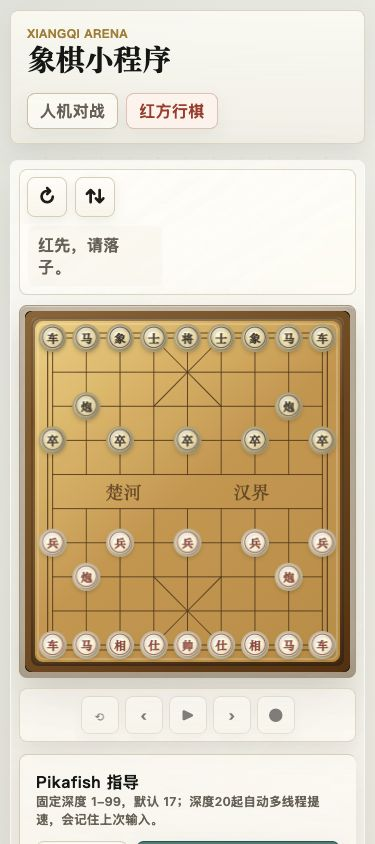
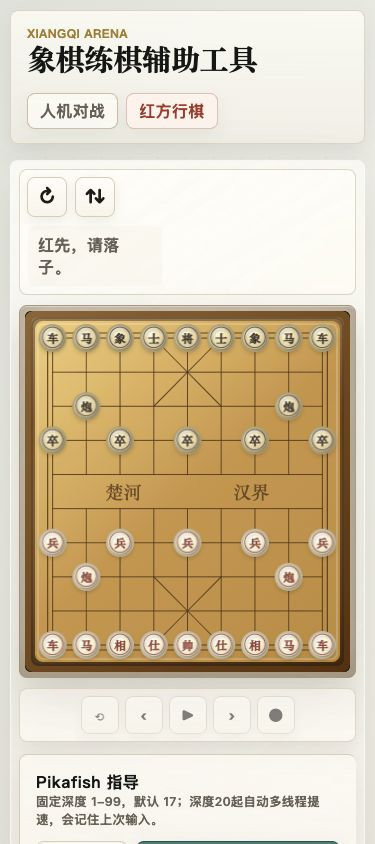
Rebrand promotion as training assistant

Changed region(s): [[0.2053, 0.0308, 0.528, 0.0924], [0.5573, 0.0308, 0.6747, 0.0924]]

diff --git a/index.html b/index.html
@@ -3,30 +3,30 @@
   <head>
     <meta charset="utf-8">
     <meta name="viewport" content="width=device-width, initial-scale=1">
-    <title>象棋小程序 - Pikafish AI 复盘推演与在线对练</title>
-    <meta name="description" content="一款支持 Pikafish AI 指导、人机对战、玩家对练、双人练习、棋谱复盘、历史记录和多套棋盘风格的网页中国象棋小程序。">
-    <meta name="keywords" content="象棋,中国象棋,象棋AI,Pikafish,象棋小程序,象棋复盘,象棋推演,人机对战,在线对练,棋谱">
+    <title>象棋练棋辅助工具 - 棋谱招训练、Pikafish AI 复盘推演</title>
+    <meta name="description" content="一款面向象棋练棋的辅助工具，支持棋谱招优先训练、Pikafish AI 指导、多路线推演、复盘、历史记录、人机对练和多套棋盘风格。">
+    <meta name="keywords" content="象棋,中国象棋,象棋AI,Pikafish,象棋练棋辅助工具,棋谱招,象棋复盘,象棋推演,人机对战,在线对练,棋谱">
     <meta name="author" content="Mr. Wang">
     <meta name="robots" content="index,follow">
     <link rel="canonical" href="https://xianqi-mini-program.onrender.com/">
     <meta property="og:type" content="website">
     <meta property="og:locale" content="zh_CN">
-    <meta property="og:title" content="象棋小程序 - Pikafish AI 复盘推演与在线对练">
-    <meta property="og:description" content="打开即下的中国象棋工具，支持 Pikafish AI 指导、多路线推演、人机对战、玩家对练、复盘和多套棋盘风格。">
+    <meta property="og:title" content="象棋练棋辅助工具 - 棋谱招训练、Pikafish AI 复盘推演">
+    <meta property="og:description" content="面向练棋和复盘的中国象棋工具，支持棋谱招优先训练、Pikafish AI 指导、多路线推演、玩家对练和多套棋盘风格。">
     <meta property="og:url" content="https://xianqi-mini-program.onrender.com/">
-    <meta property="og:site_name" content="象棋小程序">
+    <meta property="og:site_name" content="象棋练棋辅助工具">
     <meta name="twitter:card" content="summary">
-    <meta name="twitter:title" content="象棋小程序 - Pikafish AI 复盘推演与在线对练">
-    <meta name="twitter:description" content="支持 Pikafish AI 指导、人机对战、玩家对练、棋谱复盘和多套棋盘风格的网页中国象棋小程序。">
+    <meta name="twitter:title" content="象棋练棋辅助工具 - 棋谱招训练、Pikafish AI 复盘推演">
+    <meta name="twitter:description" content="支持棋谱招优先训练、Pikafish AI 指导、多路线推演、复盘和多套棋盘风格的网页象棋练棋辅助工具。">
     <script type="application/ld+json">
       {
         "@context": "https://schema.org",
         "@type": "WebApplication",
-        "name": "象棋小程序",
+        "name": "象棋练棋辅助工具",
         "applicationCategory": "GameApplication",
         "operatingSystem": "Web",
         "url": "https://xianqi-mini-program.onrender.com/",
-        "description": "支持 Pikafish AI 指导、人机对战、玩家对练、双人练习、棋谱复盘和多套棋盘风格的网页中国象棋小程序。",
+        "description": "支持棋谱招优先训练、Pikafish AI 指导、多路线推演、玩家对练、复盘和多套棋盘风格的网页象棋练棋辅助工具。",
         "inLanguage": "zh-CN",
         "offers": {
           "@type": "Offer",
@@ -42,7 +42,7 @@
       <header class="topbar">
         <div>
           <p class="eyebrow">Xiangqi Arena</p>
-          <h1>象棋小程序</h1>
+          <h1>象棋练棋辅助工具</h1>
         </div>
         <div class="top-actions" aria-label="棋局状态">
           <span class="status-pill" id="modeBadge">人机对战</span>
@@ -244,7 +244,7 @@
             <a href="https://github.com/official-pikafish/Pikafish" target="_blank" rel="noopener noreferrer">https://github.com/official-pikafish/Pikafish</a>
           </p>
           <p>
-            本小程序开源代码地址：
+            本工具开源代码地址：
             <a href="https://github.com/qq978262947/-_-" target="_blank" rel="noopener noreferrer" id="sourceCodeLink">https://github.com/qq978262947/-_-</a>
           </p>
           <p>
@@ -254,7 +254,7 @@
           <p>Pikafish 的版权归其原作者及贡献者所有。本产品遵守 GPL v3 的相关要求。</p>
         </div>
         <div class="info-body hidden" id="donatePanel">
-          <p>如果这个象棋小程序对你有帮助，可以扫码支持开发者继续完善功能。</p>
+          <p>如果这个象棋练棋辅助工具对你有帮助，可以扫码支持开发者继续完善功能。</p>
           <img class="donate-qr" src="./assets/donate-wechat.jpg" alt="微信支付捐赠收款码">
         </div>
       </div>

diff --git a/server.js b/server.js
@@ -1024,5 +1024,5 @@ const server = http.createServer((req, res) => {
 });
 
 server.listen(PORT, "0.0.0.0", () => {
-  console.log(`象棋小程序已启动：http://localhost:${PORT}`);
+  console.log(`象棋练棋辅助工具已启动：http://localhost:${PORT}`);
 });

diff --git a/PROMOTION.md b/PROMOTION.md
@@ -1,4 +1,4 @@
-# 象棋小程序推广文案
+# 象棋练棋辅助工具推广文案
 
 正式访问地址：https://xianqi-mini-program.onrender.com
 
@@ -11,17 +11,18 @@
 
 ## 一句话介绍
 
-一款支持 Pikafish AI 指导、人机对战、玩家对练、棋谱复盘和多套棋盘风格的网页中国象棋小程序。
+一款面向象棋练棋的辅助工具，重点支持棋谱招训练、Pikafish AI 指导、多路线推演、复盘和玩家对练。
 
 ## 朋友圈/微信群
 
-我做了一个中国象棋小程序，打开网页就能下棋。
+我做了一个象棋练棋辅助工具，打开网页就能练谱、复盘和推演。
 
 支持：
 
+- 棋谱招优先训练，适合练开局和常见变化
 - Pikafish AI 指导和多路线推演
-- 人机对战、玩家对练、双人练习
-- 对局复盘和历史记录
+- 人机对练、玩家对练、双人练习
+- 对局复盘、历史记录和后续变化分析
 - 多套棋盘风格和手机端适配
 
 欢迎试用和提建议：
@@ -31,13 +32,13 @@ https://xianqi-mini-program.onrender.com
 
 标题：
 
-我做了一个支持 Pikafish 推演的网页中国象棋小程序，欢迎试用
+我做了一个偏练棋用途的象棋辅助工具，支持棋谱招训练和 Pikafish 推演
 
 正文：
 
-最近做了一个网页中国象棋小程序，希望把下棋、复盘和 AI 辅助学习放在一个轻量工具里。
+最近做了一个网页象棋练棋辅助工具，希望把棋谱招训练、复盘和 AI 辅助学习放在一个轻量工具里。
 
-目前支持人机对战、玩家对练、双人练习、Pikafish 指导、多路线推演、棋谱复盘、历史记录和多套棋盘风格。网页端和手机端都做了适配，打开即可使用。
+目前的重点不是单纯“能下棋”，而是帮助棋友练开局、看棋谱招、比较不同变化。工具支持棋谱招优先匹配、Pikafish 指导、多路线推演、棋谱复盘、历史记录、人机对练、玩家对练和多套棋盘风格。网页端和手机端都做了适配，打开即可使用。
 
 项目地址：
 https://xianqi-mini-program.onrender.com
@@ -45,24 +46,25 @@ https://xianqi-mini-program.onrender.com
 开源代码：
 https://github.com/qq978262947/-_-
 
-欢迎大家试用，也欢迎反馈棋力、交互和复盘体验上的问题。
+欢迎大家试用，也欢迎反馈棋谱招覆盖、变化展示、复盘体验和练棋流程上的问题。
 
 ## 小红书/视频号
 
 标题：
 
-我做了一个能用 AI 复盘推演的象棋小程序
+我做了一个能练棋谱招的象棋辅助工具
 
 正文：
 
-做了一个中国象棋小程序，打开网页就能下。
+做了一个象棋练棋辅助工具，打开网页就能练谱、复盘、看 AI 推演。
 
 亮点：
 
+- 棋谱招优先，适合练开局变化
 - 支持 Pikafish AI 指导
 - 能看多条候选路线
-- 支持人机对战和玩家对练
-- 对局结束后可复盘
+- 支持人机对练和玩家对练
+- 对局结束后可复盘、回看历史
 - 手机端也能完整显示棋盘
 
 体验地址：
@@ -72,13 +74,13 @@ https://xianqi-mini-program.onrender.com
 
 标题：
 
-我做了一个手机上也能完整下棋的中国象棋小程序
+我做了一个手机上也能练谱复盘的象棋辅助工具
 
 口播/字幕：
 
-最近做了一个网页象棋小程序，不用安装，打开就能下。
+最近做了一个网页象棋练棋辅助工具，不用安装，打开就能练谱、下棋和复盘。
 
-它支持人机对战、玩家对练、Pikafish AI 指导、多路线推演和复盘。手机屏幕也做了适配，棋盘可以完整显示。
+它重点支持棋谱招训练，也能用 Pikafish 做 AI 指导、多路线推演和复盘。手机屏幕也做了适配，棋盘可以完整显示。
 
 想试试的话，搜索或打开：
 https://xianqi-mini-program.onrender.com
@@ -86,19 +88,19 @@ https://xianqi-mini-program.onrender.com
 视频建议：
 
 - 先展示手机端完整棋盘。
-- 再展示走一步棋和 AI 推荐。
-- 最后展示复盘或棋盘风格切换。
+- 再展示棋谱招/AI 推荐路线。
+- 最后展示复盘、历史记录或棋盘风格切换。
 
 ## GitHub README 简短宣传语
 
-支持 Pikafish AI 指导、多路线推演、人机对战、玩家对练、棋谱复盘和多套棋盘风格的网页中国象棋小程序。
+支持棋谱招训练、Pikafish AI 指导、多路线推演、人机对练、玩家对练、棋谱复盘和多套棋盘风格的网页象棋练棋辅助工具。
 
 ## 推广渠道清单
 
-- 微信朋友圈：发体验链接和功能截图。
-- 象棋微信群：重点强调 AI 指导、复盘和玩家对练。
-- 知乎：写开发复盘和功能介绍。
+- 微信朋友圈：发体验链接和功能截图，强调练棋谱招和复盘。
+- 象棋微信群：重点强调棋谱招训练、AI 指导、复盘和玩家对练。
+- 知乎：写棋谱招训练、Pikafish 推演和开发复盘。
 - 百度贴吧：中国象棋吧、象棋软件相关讨论区。
-- 小红书/视频号：录制 30 秒手机端走棋和 AI 推演演示。
+- 小红书/视频号：录制 30 秒手机端练谱、AI 推演和复盘演示。
 - GitHub：完善 README、打 topic，例如 xiangqi、chinese-chess、pikafish、uci-engine。
 - Product Hunt / Hacker News：如果后续补英文说明，可推广给海外开源用户。

diff --git a/README.md b/README.md
@@ -1,6 +1,6 @@
-# 象棋小程序
+# 象棋练棋辅助工具
 
-一个零依赖的网页中国象棋小程序，包含人机对战、玩家对练、双人练习、Pikafish 指导、棋谱复盘、历史记录、多套棋盘风格和移动端适配。
+一个零依赖的网页象棋练棋辅助工具，重点支持棋谱招训练、Pikafish 指导、多路线推演、棋谱复盘、历史记录、人机对练、玩家对练、多套棋盘风格和移动端适配。
 
 开源仓库地址：https://github.com/qq978262947/-_-
 
@@ -8,7 +8,8 @@
 
 ## 功能
 
-- 人机对战：可选择执红或执黑，AI 难度会记住上次选择。
+- 棋谱招训练：入门、稳健、深思等难度优先使用精准匹配的棋谱招，便于练开局和常见变化。
+- 人机对练：可选择执红或执黑，AI 难度会记住上次选择。
 - 玩家对练：支持创建房间、加入房间和 30 秒匹配；匹配不到真人时由入门 AI 接管。
 - 对战计时：支持 10 秒一步/5 分钟到 60 分钟一步/1200 分钟等局时档位，超时判负。
 - Pikafish 指导：固定深度分析，多路线展示，可逐手播放和沙盘推演。